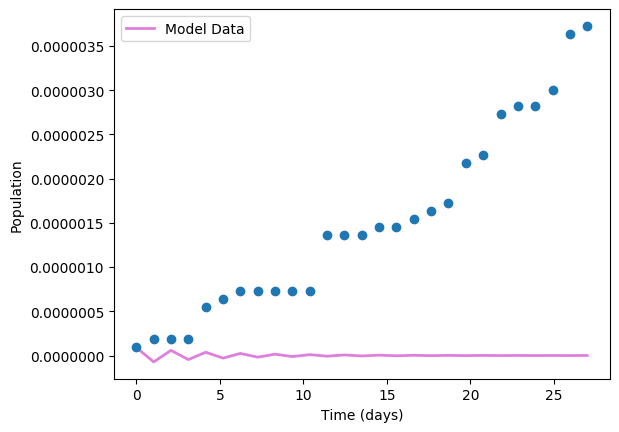
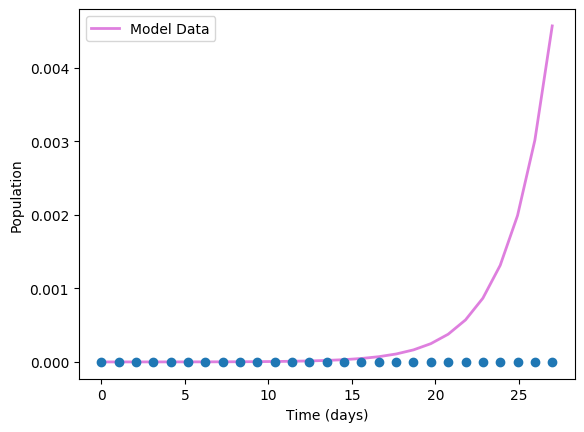
edited codes

diff --git a/finalcode2.py b/finalcode2.py
@@ -13,80 +13,80 @@ Estimating good estimates for the parameters in an SEIR using least squares regr
 '''
 P = 11000000 # current population of haiti
 Rdata = np.matrix([0,0,0,0,0,0,0,0,0,0,0,0,0,0,0,0,0,0,0,1,1,2,2,2,3,3,3]) # Listing real life deaths
-Rdata = Rdata/P
+Rdata = Rdata/P # scale down to be proportion
 Idata = np.matrix([1,2,2,2,6,7,8,8,8,8,8,15,15,15,16,16,17,18,19,24,25,30,31,31,33,40,41]) # real life infections
-Idata = Idata/P
+Idata = Idata/P #scale down to be proportion
 (dummy, dataLength) = Rdata.shape
 S = np.zeros(dataLength)# initalize blank datasets
 I = np.zeros(dataLength)
 R = np.zeros(dataLength)
-S[0] = (P-1)/P
-I[0] = 1/P
-R[0] = 1- S.item(0) -I.item(0)
+S[0] = (P-1)/P # all except one are susceptible
+I[0] = 1/P # based on one case
+R[0] = 1- S.item(0) -I.item(0) # all others fit in Recovered categorie
 
 beta = 0.6 # two initial guesses for what beta and gamma might be
 gamma = 1/12 # two initial guesses for what beta and gamma might be
 tau = 0 # because first case is when time=0
-fm = 0
+fm = 0 # initialize the lsr variable
 alpha = .5 # cooling schedule, arbitratily chosen
 T = 100 # intial temperature,arbitratily chosen
-for j in range(10000):
-    for i in range(dataLength-1):
-        dS = -beta*S[i]*I[i]
+for j in range(10000): # going thru 10000 trials
+    for i in range(dataLength-1): # go thru all terms to get lsr
+        dS = -beta*S[i]*I[i] # evaluate derivatives
         dI = beta*S[i]*I[i] - gamma*I[i]
         dR = gamma*I[i]
         I[i+1] = I[i] + dI
         fm += abs((I.item(i+1)-Idata.item(i+1))**2) # square of the error of the fitted model
     deltaBeta = .05 # step size
     deltaGamma = .001 # step size
-    betaOrGamma = random.random()
-    fhat = 0
+    betaOrGamma = random.random() # number btwn 0 or 1 to see which step you will do
+    fhat = 0 # initalizing lsr for new beta or gamma value
     if betaOrGamma< 0.25:
-        betaNew = beta + deltaBeta
+        betaNew = beta + deltaBeta # add to beta
         for i in range(dataLength - 1):
-            dS = -betaNew*S[i]*I[i]
+            dS = -betaNew*S[i]*I[i] # reevaluate derivatives using new beta value
             dI = betaNew*S[i]*I[i] - gamma*I[i]
             dR = gamma*I[i]
             I[i+1] = I[i] + dI
             fhat += abs((I.item(i+1)-Idata.item(i+1))**2) # square of the error of the neighbors model
             if fhat < fm:
-                A = 1
+                A = 1 # ACCEPT
             else:
-                A = math.exp((fm-fhat)/T) # calculation of A is done wrong
+                A = math.exp((fm-fhat)/T) # maybe accept
             acceptanceProbability = random.random() # randomly chose acceptance probability
             if acceptanceProbability< A:
-                fm = fhat
-                beta = betaNew
+                fm = fhat # then we have a new lsr
+                beta = betaNew # and a new beta Value
             else:
               pass
     elif 0.5>betaOrGamma> 0.25:
-        betaNew = beta - deltaBeta
+        betaNew = beta - deltaBeta # then subtract from beta
         for i in range(dataLength - 1):
-            dS = -betaNew*S[i]*I[i]
+            dS = -betaNew*S[i]*I[i] # reevaluate derivatives using new beta value
             dI = betaNew*S[i]*I[i] - gamma*I[i]
             dR = gamma*I[i]
             I[i+1] = I[i] + dI
             fhat += abs((I.item(i+1)-Idata.item(i+1))**2) # square of the error of the neighbors model
             if fhat < fm:
-                A = 1
+                A = 1 # then ACCEPT
             else:
-                A = math.exp((fm-fhat)/T) # calculation of A is done wrong
+                A = math.exp((fm-fhat)/T) # THEN maybe accept
             acceptanceProbability = random.random() # randomly chose acceptance probability
             if acceptanceProbability< A:
-                fm = fhat
-                beta = betaNew
+                fm = fhat # adopt new lsr
+                beta = betaNew # and a new beta value
             else:
               pass
     elif 0.75>betaOrGamma> 0.5:
-        gammaNew = gamma + deltaGamma
+        gammaNew = gamma + deltaGamma  # then add to gamma
         for i in range(dataLength - 1):
-            dS = -beta*S[i]*I[i]
+            dS = -beta*S[i]*I[i] # reeval derivs using new gamma value
             dI = beta*S[i]*I[i] - gammaNew*I[i]
             dR = gammaNew*I[i]
             I[i+1] = I[i] + dI
             fhat += abs((I.item(i+1)-Idata.item(i+1))**2) # square of the error of the neighbors model
             if fhat < fm:
-                A = 1
+                A = 1 # accept
             else:
                 A = math.exp((fm-fhat)/T) # calculation of A is done wrong
             acceptanceProbability = random.random() # randomly chose acceptance probability
@@ -96,7 +96,7 @@ for j in range(10000):
             else:
               pass
     elif 1>betaOrGamma> 0.75:
-        gammaNew = gamma - deltaGamma
+        gammaNew = gamma - deltaGamma # then subtract from gamma
         for i in range(dataLength - 1):
             dS = -beta*S[i]*I[i]
             dI = beta*S[i]*I[i] - gammaNew*I[i]
@@ -106,29 +106,29 @@ for j in range(10000):
             if fhat < fm:
                 A = 1
             else:
-                A = math.exp((fm-fhat)/T) # calculation of A is done wrong
+                A = math.exp((fm-fhat)/T) # maybe accept, calculation of A is done wrong
             acceptanceProbability = random.random() # randomly chose acceptance probability
             if acceptanceProbability< A:
-                fm = fhat
+                fm = fhat # adopt new lsr and new gamma value
                 gamma = gammaNew
             else:
               pass
 print(beta,gamma)
-t =  np.linspace(0, 27, 27)
+t =  np.linspace(0, 27, 27) # make time vector
 S = np.zeros(27)# initalize blank datasets
 I = np.zeros(27)
 R = np.zeros(27)
-S[0] = (P-1)/P
+S[0] = (P-1)/P # first item is certain by assumptions of initial state
 I[0] = 1/P
 R[0] = 1- S.item(0) -I.item(0)
-for i in range(26):
+for i in range(26): # make SIR vectors using new beta and gamma, for all except first term
     dS = - beta*S[i]*I[i]
     dI = beta*S[i]*I[i] - gamma*I[i]
     dR = gamma*I[i]
     S[i+1] = S[i] + dS
     I[i+1] = I[i] + dI
     R[i+1] = R[i] + dR
-    Dead = 3/41 * R
+    Dead = 3/41 * R # using average death rate from the observed data
 # Plot the data on three separate curves for S(t), I(t) and R(t)
 plt.figure()  # open the figure
 fig,ax = plt.subplots()
@@ -141,20 +141,23 @@ ax.set_ylabel('Population')
 legend = ax.legend(loc = 'upper left')
 plt.savefig('SimAnnealing.png', bbox_inches ='tight')
 
+
+## PLOT the data for the observed real time data to get an understanding of the trends before we are
+## certain that this is a good fit
 plt.figure()  # open the figure
 fig,ax = plt.subplots()
 ax.plot(realTime,Idata, 'o')
 plt.savefig('realCurve.png', bbox_inches ='tight')
-beta = .5
-gamma  = 1/30
+beta = .95
+gamma  = 1/20
 t =  np.linspace(0, 160, 160)
 S = np.zeros(160)# initalize blank datasets
 I = np.zeros(160)
 R = np.zeros(160)
-S[0] = (P-1)/P
+S[0] = (P-1)/P # assumptions about the initial state
 I[0] = 1/P
 R[0] = 1- S.item(0) -I.item(0)
-for i in range(159):
+for i in range(159): # calculate vector over 160 days
     dS = - beta*S[i]*I[i]
     dI = beta*S[i]*I[i] - gamma*I[i]
     dR = gamma*I[i]
@@ -165,19 +168,25 @@ for i in range(159):
 # Plot the data on three separate curves for S(t), I(t) and R(t)
 plt.figure()  # open the figure
 fig,ax = plt.subplots()
-realTime = np.linspace(0,dataLength, dataLength)
+realTime = np.linspace(0,dataLength, dataLength) # time vector
 Idata = Idata.transpose()
-deathRate = .034
+deathRate = 3/41 # observed in the data
 Dead = deathRate*I
-ax.plot(t, S, 'b', alpha=0.5, lw=2, label='Susceptible')
+ax.plot(t, S, 'b', alpha=0.5, lw=2, label='Susceptible') # plot all the different lines
 ax.plot(t, I, 'm', alpha=0.5, lw=2, label='Infected')
 ax.plot(t, Dead, 'r', alpha=0.5, lw=2, label='Dead')
 ax.plot(t, R, 'g', alpha=0.5, lw=2, label='Recovered with immunity or Dead')
-ax.set_xlabel('Time (days)')
+ax.set_xlabel('Time (days)') # set label, legend, title
 ax.set_ylabel('Population')
 legend = ax.legend(loc = 'upper left')
-plt.savefig('SimAnnealing160days.png', bbox_inches ='tight')
-Ilist = I.tolist()
-maxIday = Ilist.index(max(I))
-maxDeath = max(Dead) *P
+plt.savefig('SimAnnealing160days.png', bbox_inches ='tight') # save the graph
+Ilist = I.tolist() # reformatting to eliminate bugs
+maxIday = Ilist.index(max(I)) # find day where number of infections is highest
+maxDeath = max(Dead)*P
 maxCases = max(I)*P
+print('On day %d, the number of infections is the highest. ' %maxIday)
+print('The maximum number of deaths is %d. ' %maxDeath)
+print('The maximum number of cases is %d. ' %maxCases)
+
+
+

diff --git a/finalcode.py b/finalcode.py
@@ -9,8 +9,6 @@ Question 1: Seing How Changing Different Parameters Affects the Day Gap, The hei
 and the amount of days untill the peak in case
 '''
 
-
-
 '''
 Part a:
 Using good estimates for the parameters provided by a variety of different sources:
@@ -330,140 +328,5 @@ dayGap7 = maxIday7 - maxEday7
 maxDeath7 = max(Dead7)
 maxCases7 = max(I)
 
-# negative sign means WHO didnt have data and i need to go look for it
-# deaths + recoveries cumulative comparison, depending on data i am able to find
-# LSR methods  to compare to beta, sigma, gamma
-# secant method to optimize 
 
 
-
-'''
-Question 2:
-Estimating good estimates for the parameters in an SEIR using least squares regression:
-
-'''
-Ddata = [0,0,0,0, 0,0,0,0,0,0,0,0,0,0,0,0,0,0,0,1,1,2,2,2,3,3, 3] # Listing real life deaths
-Idata = [1,2,2,2,6,7, 8,8,8,8,8,15,15,15,16,16,17,18,19,24,25,30, 31,31,33,40, 41] # real life infections
-sdata = [11000000]*len(Ddata)
-deathRate = 3/41
-for i in range(len(Ddata)):
-    sdata[i] = sdata[i] - Ddata[i] -Idata[i] # real life sucpetible
-tdata = np.linspace(0, len(Ddata), len(Ddata)) # time in days
-
-
-def fitFunc(sir_values, time, beta, sigma, gamma, k): # making function that has the diff eqs for seir model
-    s = sir_values[0]
-    i = sir_values[1]
-    e = sir_values[2]
-    r = sir_values[3]
-    res = np.zeros((4))
-    res[0] = - beta * s * i/N
-    res[1] = beta * s * i/N - sigma * i
-    res[2] = sigma*e - gamma*i
-    res[3] = gamma * i
-    return res
-
-def lsq(model, tdata, Idata, n):
-    """least squares"""
-    time_total = tdata
-    # original record data
-    data_record = Idata
-    # normalize train data
-    k = 1.0/sum(data_record)
-    # init t = 0 values + normalized
-    I0 = data_record[0]*k
-    S0 = 11000000 - I0
-    R0 = 0 
-    N0 = [S0,E0, I0,R0]
-    # Set initial parameter values
-    param_init = [0.75, 0.75, 0.75]
-    param_init.append(k)
-    # fitting
-    param = minimize(sse(model, N0, time_total, k, data_record, n), param_init, method="nelder-mead").x
-    # get the fitted model
-    Nt = integrate.odeint(model, N0, time_total, args=tuple(param))
-    # scale out
-    Nt = np.divide(Nt, k)
-    print(param[0], param[1], param[3])
-    # Get the second column of data corresponding to I
-    return Nt[:,2]
-
-def sse(model, N0, time_total, k, data_record, n):
-    """sum of square errors"""
-    def result(x):
-        Nt = integrate.odeint(model, N0, time_total[:n], args=tuple(x))
-        INt = [row[2] for row in Nt]
-        INt = np.divide(INt, k)
-        difference = data_record[:n] - INt
-        # square the difference
-        diff = np.dot(difference, difference)
-        return diff
-    return result
-
-result = lsq(fitFunc, tdata, Idata, len(tdata))
-
-# Plot data and fit
-plt.figure()  # open the figure
-fig,ax = plt.subplots()
-ax.plot(tdata, Idata, "o", label = 'Real Time Data') # plot of real time data
-ax.plot(tdata, result, label = 'Line of Best Fit') # plot line of best fit
-ax.set_xlabel('Time (days)')
-ax.set_ylabel('Number of Infections')
-legend = ax.legend(loc = 'upper left')
-plt.title('LSR Graph for Infections')
-plt.savefig('InfectionsLSR.png', bbox_inches ='tight')
-
-###  Parameters found 
-
-# Total population, N.
-N = 11000000
-# Initial number of infected and recovered individuals, I0 and R0.
-I0 = 2 #beggining date march 19th
-E0 = 0
-R0 =  0
-# Everyone else, S0, is susceptible to infection initially.
-S0 = N - I0 - E0 - R0
-# Contact rate, beta, and mean recovery rate, gamma, (in 1/days). #CHANGE WORDS HERE
-beta, sigma, gamma = .86917642, .14453603, 0.0024153289425848028  
-# A grid of time points (in days)
-t = np.linspace(0, 160, 160)
-
-# The SIR model differential equations.
-def deriv(y, t, N, beta, sigma, gamma):
-    S, E, I, R = y
-    dSdt = -beta * S * I / N
-    dEdt = beta * S * I / N - sigma*E
-    dIdt = sigma*E- gamma * I
-    dRdt = gamma * I
-    return dSdt, dEdt, dIdt, dRdt
-
-# Initial conditions vector
-y0 = S0, E0, I0, R0
-# Integrate the SIR equations over the time grid, t.
-# do it over different parameter values???
-ret = odeint(deriv, y0, t, args=(N, beta, sigma, gamma))# add commas for more parameters
-S, E, I, R = ret.T
-Elist = E.tolist()
-Ilist = I.tolist()
-Dead8 = deathRate*I
-maxEday8 = Elist.index(max(E))
-maxIday8 = Ilist.index(max(I))
-dayGap8 = maxIday8 - maxEday8
-maxDeath8 = max(Dead8)
-maxCases8 = max(I)
-
-print(' The estimated model estimates that %d are dead by the end of the period of 160 days.' %DeadinEnd1)
-print(' The estimated model estimates that %d are recovered by the end of the period of 160 days.' %RecoveredinEnd1)
-
-# Plot the data on three separate curves for S(t), I(t) and R(t)
-plt.figure()  # open the figure
-fig,ax = plt.subplots() 
-ax.plot(t, S, 'b', alpha=0.5, lw=2, label='Susceptible')
-ax.plot(t, E, 'y', alpha=0.5, lw=2, label='Exposed')
-ax.plot(t, I, 'm', alpha=0.5, lw=2, label='Infected')
-ax.plot(t, R, 'g', alpha=0.5, lw=2, label='Recovered with immunity or Dead')
-ax.plot(t, Dead8, linestyle='--', alpha=0.5, lw=2, label='Dead')
-ax.set_xlabel('Time (days)')
-ax.set_ylabel('Population')
-legend = ax.legend(loc = 'upper left')
-plt.savefig('LSRfull.png', bbox_inches ='tight')
